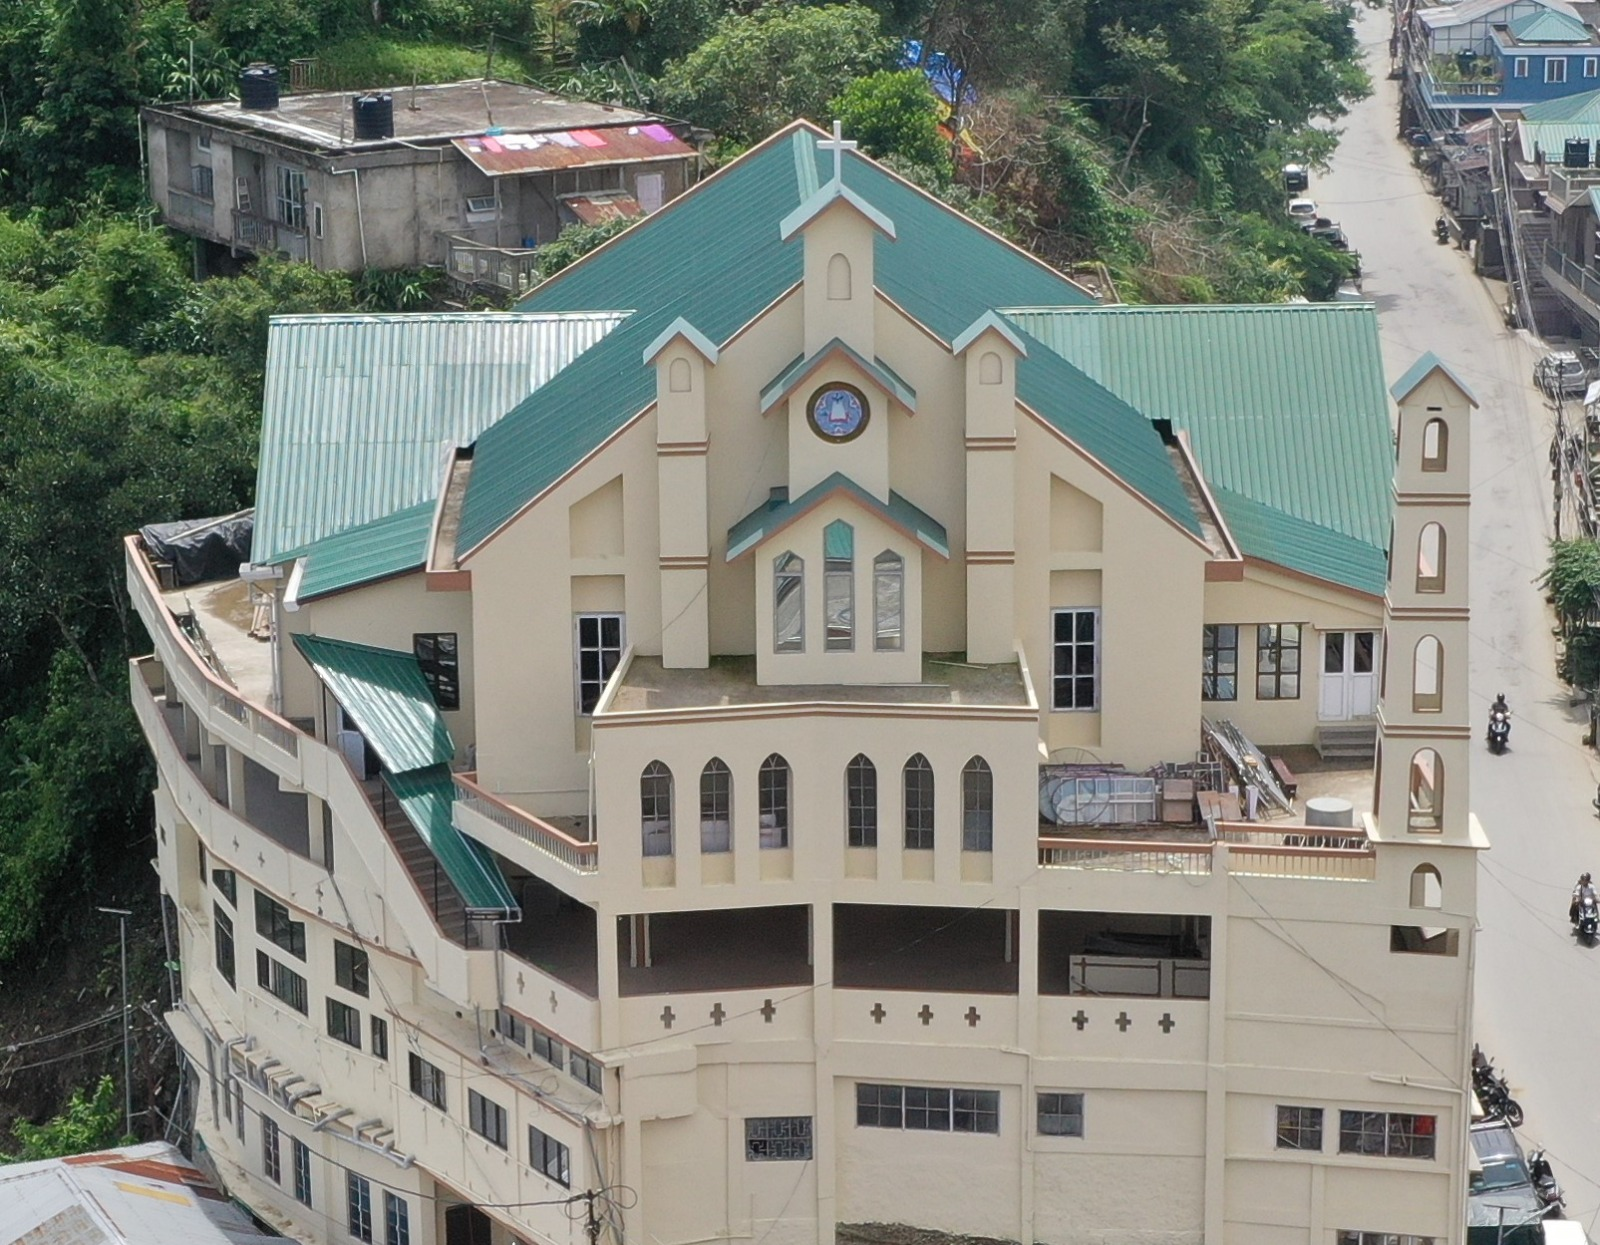
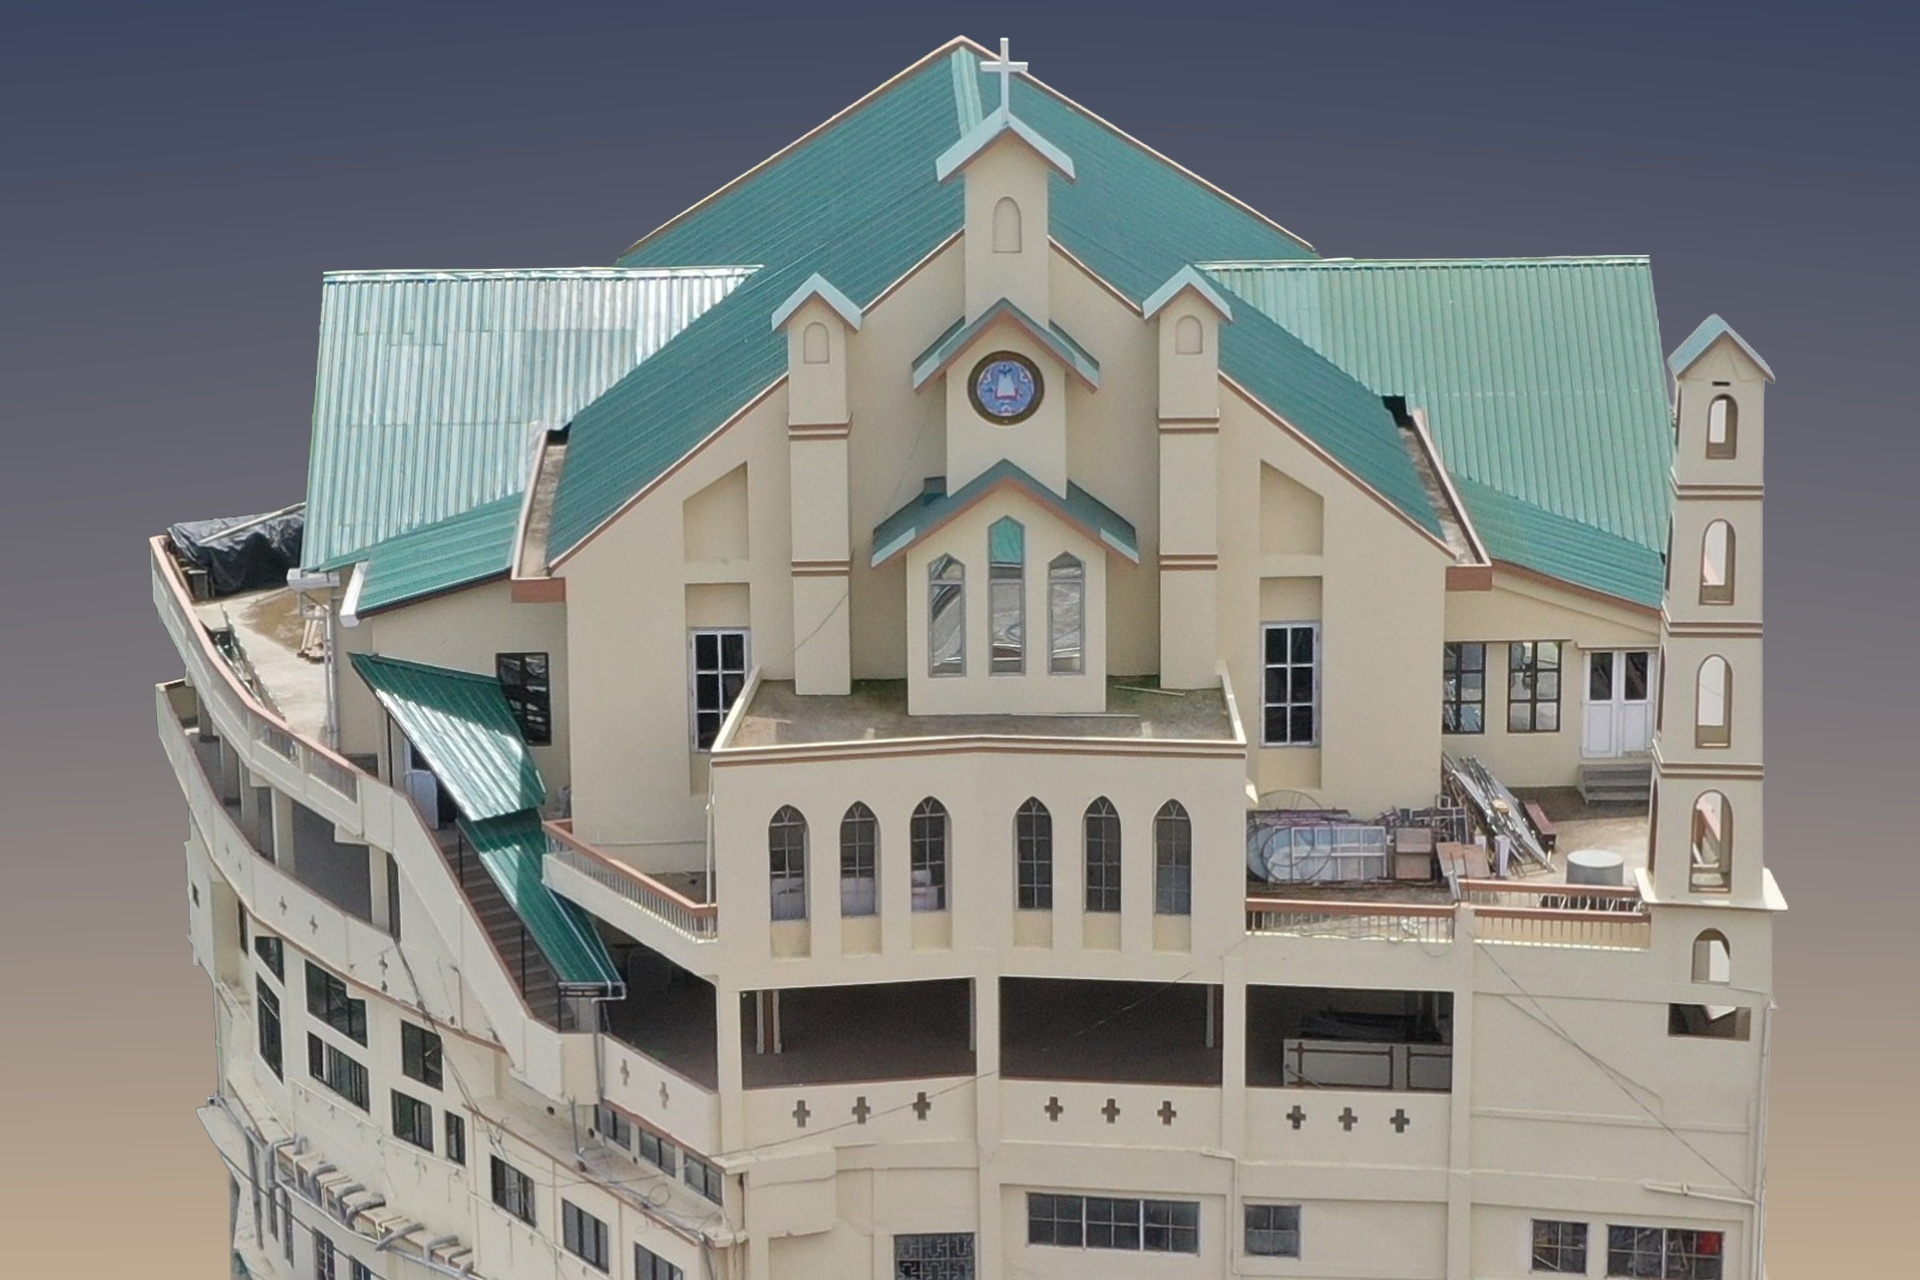
Update hero background image and revert to auto height

diff --git a/assets/css/pages.css b/assets/css/pages.css
@@ -8,8 +8,7 @@
    ======================== */
 .hero {
   position: relative;
-  min-height: 100vh;
-  min-height: 100dvh;
+  min-height: auto;
   padding-top: 4rem;
   padding-bottom: 4rem;
   display: flex;
@@ -19,15 +18,15 @@
   overflow: hidden;
   background-color: var(--color-bg);
   background-image: 
-    linear-gradient(to bottom, rgba(248, 250, 252, 0.5), rgba(248, 250, 252, 0.85)),
+    linear-gradient(to bottom, rgba(248, 250, 252, 0.6), rgba(248, 250, 252, 0.95)),
     url('../images/hero-bg.jpeg');
   background-size: cover;
-  background-position: center center;
+  background-position: top center;
 }
 
 [data-theme="dark"] .hero {
   background-image: 
-    linear-gradient(to bottom, rgba(15, 23, 42, 0.5), rgba(15, 23, 42, 0.85)),
+    linear-gradient(to bottom, rgba(15, 23, 42, 0.6), rgba(15, 23, 42, 0.95)),
     url('../images/hero-bg.jpeg');
 }
 
